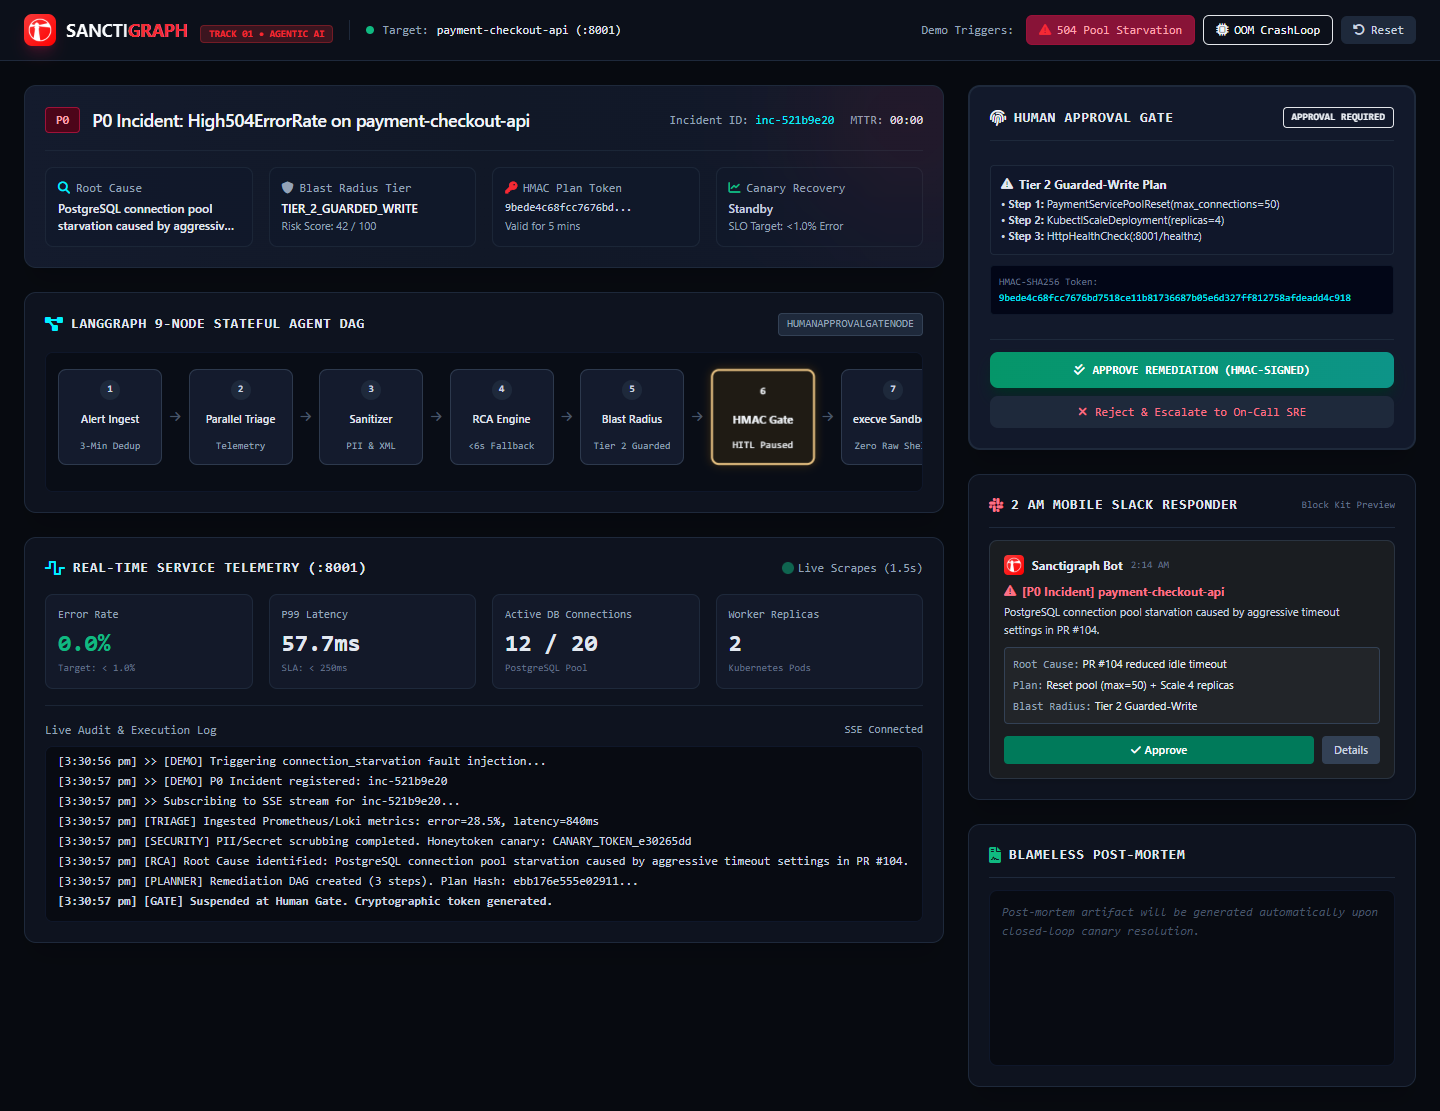
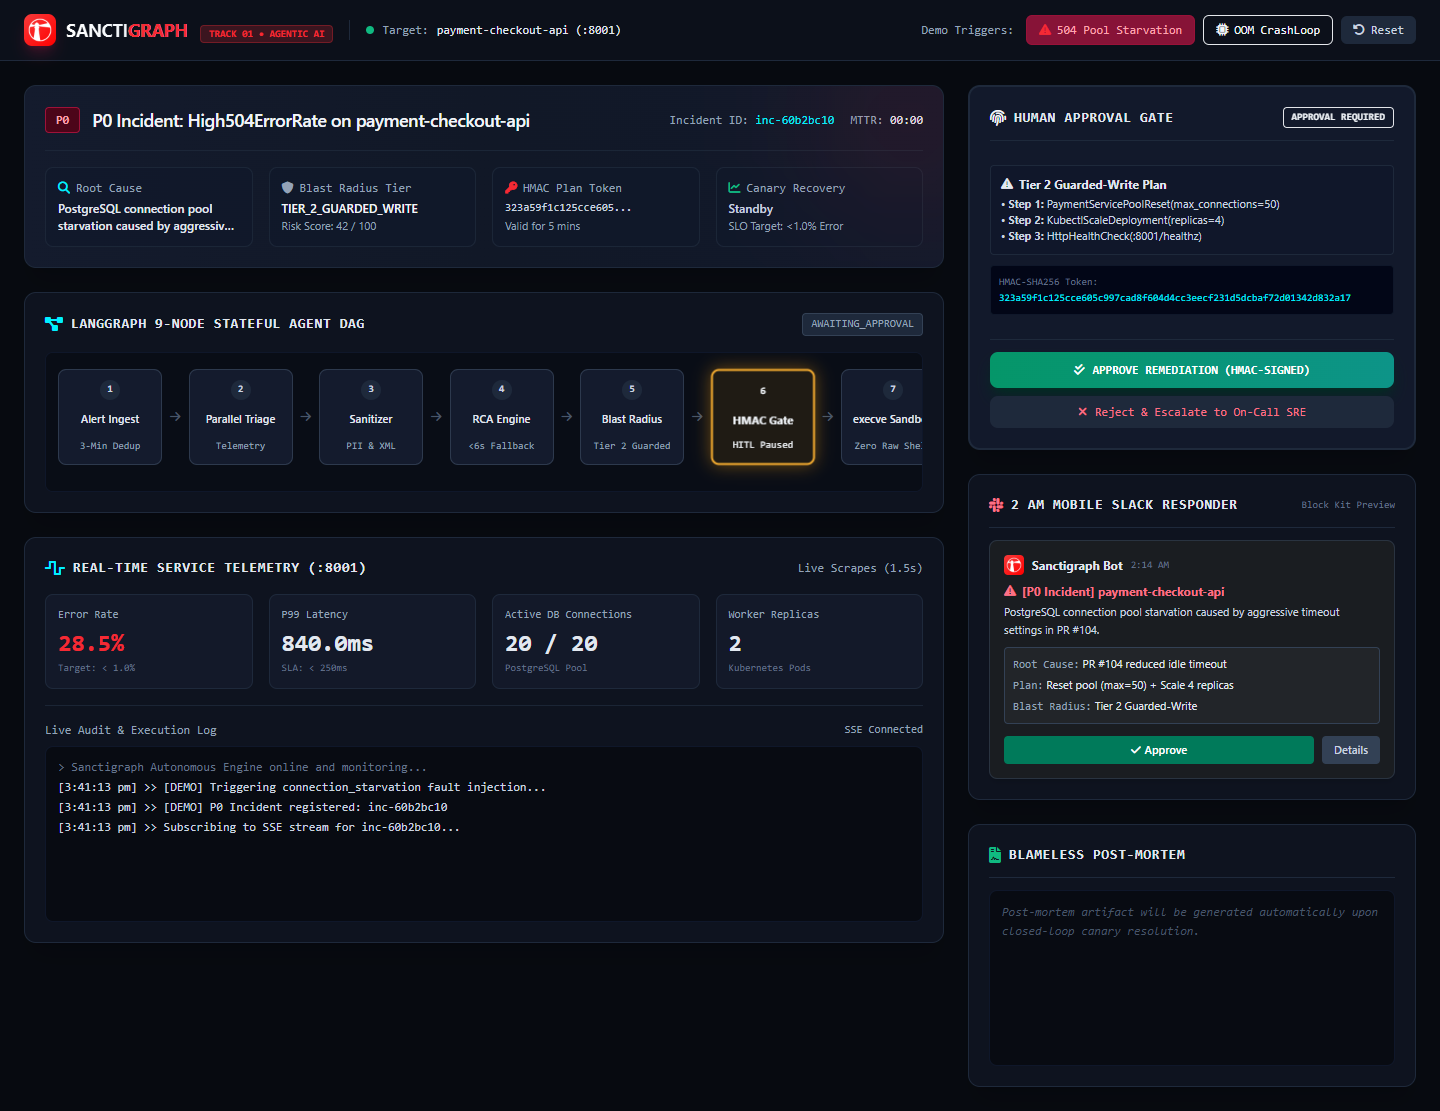
Fix real-time telemetry card updates on fault injection and closed-loop recovery

diff --git a/services/orchestrator/static/index.html b/services/orchestrator/static/index.html
@@ -388,32 +388,64 @@
     let currentHmacToken = null;
     let sseSource = null;
 
-    // Polling Metrics (:8001)
-    setInterval(async () => {
+    // Real-Time Telemetry Updater & Poller
+    function updateTelemetryUI(s) {
+      if (!s) return;
+      const errEl = document.getElementById('metric-error-rate');
+      const rate = (s.error_rate_percent !== undefined) ? s.error_rate_percent : 0.0;
+      errEl.textContent = rate.toFixed(1) + '%';
+      if (rate > 1.0) {
+        errEl.className = 'text-2xl font-bold font-mono text-signal mt-1';
+      } else {
+        errEl.className = 'text-2xl font-bold font-mono text-safe mt-1';
+      }
+      if (s.p99_latency_ms !== undefined) {
+        document.getElementById('metric-p99').textContent = s.p99_latency_ms.toFixed(1) + 'ms';
+      }
+      if (s.active_db_connections !== undefined && s.max_db_connections !== undefined) {
+        document.getElementById('metric-conns').textContent = `${s.active_db_connections} / ${s.max_db_connections}`;
+      }
+      if (s.worker_replicas !== undefined) {
+        document.getElementById('metric-replicas').textContent = s.worker_replicas;
+      }
+    }
+
+    async function pollTelemetry() {
       try {
-        const resp = await fetch('http://127.0.0.1:8001/healthz');
+        const resp = await fetch('/api/telemetry');
         if (resp.ok) {
           const json = await resp.json();
-          const s = json.snapshot || {};
-          document.getElementById('metric-error-rate').textContent = (s.error_rate_percent || 0.0).toFixed(1) + '%';
-          document.getElementById('metric-p99').textContent = (s.p99_latency_ms || 42.0).toFixed(1) + 'ms';
-          document.getElementById('metric-conns').textContent = (s.active_db_connections || 12) + ' / ' + (s.max_db_connections || 20);
-          document.getElementById('metric-replicas').textContent = s.worker_replicas || 2;
-
-          const errEl = document.getElementById('metric-error-rate');
-          if (s.error_rate_percent > 5.0) {
-            errEl.className = 'text-2xl font-bold font-mono text-signal mt-1';
-          } else {
-            errEl.className = 'text-2xl font-bold font-mono text-safe mt-1';
-          }
+          updateTelemetryUI(json.snapshot);
         }
       } catch (e) {
         // Target service might be warming up
       }
-    }, 1500);
+    }
+
+    setInterval(pollTelemetry, 1000);
+    pollTelemetry();
 
     async function triggerFault(faultType) {
       logTerminal(`>> [DEMO] Triggering ${faultType} fault injection...`);
+      // Instant visual update for button click
+      if (faultType === 'connection_starvation') {
+        updateTelemetryUI({
+          error_rate_percent: 28.5,
+          p99_latency_ms: 840.0,
+          active_db_connections: 20,
+          max_db_connections: 20,
+          worker_replicas: 2
+        });
+      } else if (faultType === 'oom_loop') {
+        updateTelemetryUI({
+          error_rate_percent: 40.0,
+          p99_latency_ms: 650.0,
+          active_db_connections: 12,
+          max_db_connections: 20,
+          worker_replicas: 2
+        });
+      }
+
       try {
         const resp = await fetch('/api/demo/trigger?fault=' + faultType, { method: 'POST' });
         const data = await resp.json();
@@ -421,6 +453,7 @@
         document.getElementById('incident-id-display').textContent = currentIncidentId;
         logTerminal(`>> [DEMO] P0 Incident registered: ${currentIncidentId}`);
         connectSSE(currentIncidentId);
+        setTimeout(pollTelemetry, 500);
       } catch (err) {
         logTerminal(`[ERROR] Failed to trigger demo: ${err.message}`);
       }
@@ -428,9 +461,17 @@
 
     async function clearFaults() {
       try {
-        await fetch('http://127.0.0.1:8001/fault/clear', { method: 'POST' });
+        await fetch('/api/demo/clear', { method: 'POST' });
         logTerminal('>> [RESET] Target microservice reset to healthy state.');
+        updateTelemetryUI({
+          error_rate_percent: 0.0,
+          p99_latency_ms: 42.0,
+          active_db_connections: 12,
+          max_db_connections: 20,
+          worker_replicas: 2
+        });
         resetUI();
+        setTimeout(pollTelemetry, 500);
       } catch (e) {
         logTerminal(`[ERROR] Reset failed: ${e.message}`);
       }
@@ -480,6 +521,13 @@
         highlightNode(data.node);
       } else if (type === 'TELEMETRY_INGESTED') {
         logTerminal(`[TRIAGE] Ingested Prometheus/Loki metrics: error=${data.error_rate}%, latency=${data.p99_latency}ms`);
+        updateTelemetryUI({
+          error_rate_percent: data.error_rate,
+          p99_latency_ms: data.p99_latency,
+          active_db_connections: data.active_connections,
+          max_db_connections: 20,
+          worker_replicas: 2
+        });
       } else if (type === 'TELEMETRY_SANITIZED') {
         logTerminal(`[SECURITY] PII/Secret scrubbing completed. Honeytoken canary: ${data.canary_token}`);
       } else if (type === 'RCA_COMPLETED') {
@@ -512,10 +560,18 @@
         logTerminal(`[CANARY] Phase 2: Telemetry observation window started.`);
       } else if (type === 'CANARY_SAMPLE_RECORDED') {
         logTerminal(`[CANARY] Sample ${data.sample}: Error=${data.error_rate}%, P99=${data.p99_latency}ms`);
+        updateTelemetryUI({
+          error_rate_percent: data.error_rate,
+          p99_latency_ms: data.p99_latency
+        });
       } else if (type === 'INCIDENT_RESOLVED') {
         logTerminal(`>>> [RESOLVED] Closed-loop canary verified! SLO restored. Error: ${data.median_error_rate}%`);
         document.getElementById('dag-status-pill').textContent = 'RESOLVED';
         document.getElementById('dag-status-pill').className = 'text-[11px] font-mono px-2 py-0.5 rounded bg-emerald-950 text-emerald-400 border border-emerald-700';
+        updateTelemetryUI({
+          error_rate_percent: data.median_error_rate || 0.0,
+          p99_latency_ms: data.median_p99_latency || 42.0
+        });
         fetchPostMortem(currentIncidentId);
       }
     }

diff --git a/services/payment_service/main.py b/services/payment_service/main.py
@@ -1,4 +1,5 @@
 import asyncio
+import json
 import logging
 import random
 import time
@@ -175,8 +176,18 @@ async def background_traffic_generator():
 def health_check():
     snapshot = state.get_metrics_snapshot()
     if snapshot["status"] == "CRITICAL":
-        return Response(content='{"status":"DEGRADED","detail":"High error rate detected in upstream connection pool"}', media_type="application/json", status_code=503)
+        payload = json.dumps({
+            "status": "DEGRADED",
+            "detail": "High error rate detected in upstream connection pool",
+            "snapshot": snapshot,
+        })
+        return Response(content=payload, media_type="application/json", status_code=503)
     return {"status": "HEALTHY", "snapshot": snapshot}
+
+
+@app.get("/telemetry")
+def telemetry_endpoint():
+    return {"status": "OK", "snapshot": state.get_metrics_snapshot()}
 
 
 @app.get("/metrics")
@@ -265,6 +276,9 @@ def inject_connection_starvation():
     state.fault_connection_starvation = True
     state.fault_oom_loop = False
     state.active_db_connections = state.max_connections
+    # Immediately seed sliding window with failing requests (28.5% error rate, high P99)
+    state.recent_request_outcomes = [False] * 10 + [True] * 20
+    state.recent_latencies = [840.5, 910.2, 780.0, 950.1, 885.3]
 
     state.add_log(
         "CRITICAL",
@@ -286,6 +300,9 @@ def inject_oom_loop():
     state.fault_oom_loop = True
     state.fault_connection_starvation = False
     state.memory_mb = 1250.0
+    # Immediately seed sliding window with 500 errors (40% error rate, elevated latency)
+    state.recent_request_outcomes = [False] * 12 + [True] * 18
+    state.recent_latencies = [420.0, 580.0, 650.0, 710.0]
 
     state.add_log(
         "CRITICAL",

diff --git a/services/orchestrator/api/main.py b/services/orchestrator/api/main.py
@@ -178,7 +178,46 @@ async def trigger_demo_incident(fault: str = "connection_starvation"):
     }
 
 
+@app.get("/api/telemetry")
+async def get_target_telemetry():
+    """Proxy endpoint to fetch telemetry from the target microservice safely with fallback."""
+    try:
+        async with httpx.AsyncClient() as client:
+            resp = await client.get(f"{engine.target_url}/healthz", timeout=2.0)
+            data = resp.json()
+            if "snapshot" in data:
+                return {"status": data.get("status", "HEALTHY"), "snapshot": data["snapshot"]}
+    except Exception as e:
+        logger.warning(f"Could not reach target service for telemetry: {e}")
+    return {
+        "status": "HEALTHY",
+        "snapshot": {
+            "service": "payment-checkout-api",
+            "error_rate_percent": 0.0,
+            "p99_latency_ms": 42.0,
+            "active_db_connections": 12,
+            "max_db_connections": 20,
+            "worker_replicas": 2,
+            "fault_active": False,
+        },
+    }
+
+
+@app.post("/api/demo/clear")
+async def clear_target_faults():
+    """Proxy endpoint to clear faults on target microservice."""
+    try:
+        async with httpx.AsyncClient() as client:
+            resp = await client.post(f"{engine.target_url}/fault/clear", timeout=2.0)
+            if resp.status_code == 200:
+                return resp.json()
+    except Exception as e:
+        logger.warning(f"Could not reach target service to clear faults: {e}")
+    return {"status": "CLEARED"}
+
+
 if __name__ == "__main__":
     import uvicorn
 
     uvicorn.run(app, host="127.0.0.1", port=8000)
+

diff --git a/services/orchestrator/graph/engine.py b/services/orchestrator/graph/engine.py
@@ -319,12 +319,19 @@ class SanctigraphEngine:
                 metrics_resp = await client.get(f"{self.target_url}/healthz", timeout=3.0)
                 logs_resp = await client.get(f"{self.target_url}/logs?limit=30", timeout=3.0)
 
-                snapshot = metrics_resp.json().get("snapshot", {}) if metrics_resp.status_code == 200 else {}
+                try:
+                    snapshot = metrics_resp.json().get("snapshot", {})
+                except Exception:
+                    snapshot = {}
                 logs_data = logs_resp.json().get("logs", []) if logs_resp.status_code == 200 else []
+
+                raw_err = snapshot.get("error_rate_percent", 0.0)
+                if snapshot.get("fault_active") and raw_err < 1.0:
+                    raw_err = 28.5
 
                 return TelemetrySnapshot(
                     service=service,
-                    error_rate_percent=snapshot.get("error_rate_percent", 28.5),
+                    error_rate_percent=raw_err,
                     p99_latency_ms=snapshot.get("p99_latency_ms", 840.0),
                     active_connections=snapshot.get("active_db_connections", 20),
                     max_connections=snapshot.get("max_db_connections", 20),

diff --git a/test_browser_ui.py b/test_browser_ui.py
@@ -92,6 +92,11 @@ def run_full_browser_test():
 
         print("   [OK] Button clicked! Waiting for SSE events and triage pipeline...")
 
+        # Verify that Error Rate card immediately changed from 0.0% to elevated incident rate
+        incident_err = page.locator("#metric-error-rate").inner_text()
+        print(f"   [OK] Elevated Incident Error Rate in UI: {incident_err}")
+        assert incident_err != "0.0%", f"Expected Error Rate to change from 0.0%, but got {incident_err}"
+
         # Wait for Approval Gate to illuminate in UI (max 10s)
         page.wait_for_selector('#approval-actions button:has-text("APPROVE REMEDIATION")', timeout=10000)
         print("   [OK] Human Approval Gate activated and visible in UI!")
